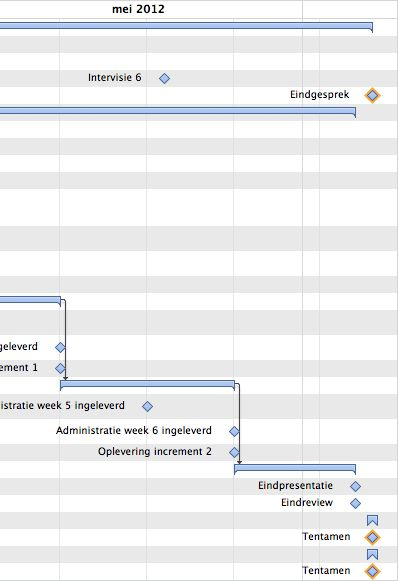
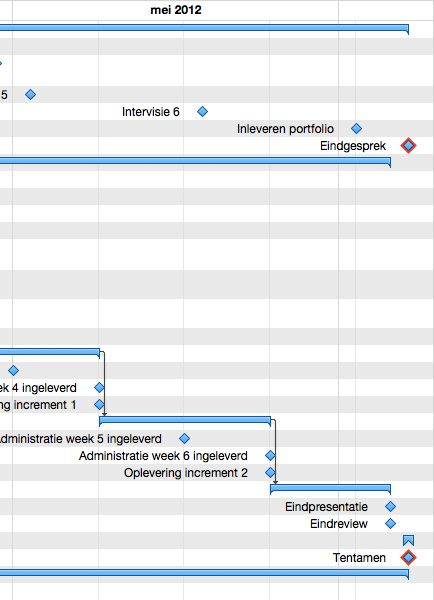
* Added ICV milestones * Added SLB milestones * Adjusted style to be more readable

diff --git a/planning/ISM2IKBS.V111.html b/planning/ISM2IKBS.V111.html
@@ -44,7 +44,16 @@
                 <td></td>
             </tr>
             <tr class="taskTypeMilestone">
-                <td style="padding-left: 28px;" class="wrap">1.2) Intervisie 5</td>
+                <td style="padding-left: 28px;" class="wrap">1.2) Inleveren POP</td>
+                <td>27-04-12</td>
+                <td>27-04-12</td>
+                <td></td>
+                <td>0%</td>
+                <td></td>
+                <td></td>
+            </tr>
+            <tr class="taskTypeMilestone">
+                <td style="padding-left: 28px;" class="wrap">1.3) Intervisie 5</td>
                 <td>08-05-12</td>
                 <td>08-05-12</td>
                 <td></td>
@@ -53,7 +62,7 @@
                 <td></td>
             </tr>
             <tr class="taskTypeMilestone">
-                <td style="padding-left: 28px;" class="wrap">1.3) Intervisie 6</td>
+                <td style="padding-left: 28px;" class="wrap">1.4) Intervisie 6</td>
                 <td>22-05-12</td>
                 <td>22-05-12</td>
                 <td></td>
@@ -62,7 +71,16 @@
                 <td></td>
             </tr>
             <tr class="taskTypeMilestone">
-                <td style="padding-left: 28px;" class="wrap">1.4) Eindgesprek</td>
+                <td style="padding-left: 28px;" class="wrap">1.5) Inleveren portfolio</td>
+                <td>04-06-12</td>
+                <td>04-06-12</td>
+                <td></td>
+                <td>0%</td>
+                <td></td>
+                <td></td>
+            </tr>
+            <tr class="taskTypeMilestone">
+                <td style="padding-left: 28px;" class="wrap">1.6) Eindgesprek</td>
                 <td>07-06-12</td>
                 <td>07-06-12</td>
                 <td></td>
@@ -270,6 +288,60 @@
             </tr>
             <tr class="taskTypeGroup">
                 <td style="padding-left: 18px;" class="wrap">4) ICV</td>
+                <td>24-04-12</td>
+                <td>07-06-12</td>
+                <td>108h</td>
+                <td>0%</td>
+                <td></td>
+                <td></td>
+            </tr>
+            <tr class="taskTypeMilestone">
+                <td style="padding-left: 28px;" class="wrap">4.1) Deeltoets 1</td>
+                <td>24-04-12</td>
+                <td>24-04-12</td>
+                <td></td>
+                <td>0%</td>
+                <td></td>
+                <td></td>
+            </tr>
+            <tr class="taskTypeMilestone">
+                <td style="padding-left: 28px;" class="wrap">4.2) Deeltoets 2</td>
+                <td>15-05-12</td>
+                <td>15-05-12</td>
+                <td></td>
+                <td>0%</td>
+                <td></td>
+                <td></td>
+            </tr>
+            <tr class="taskTypeMilestone">
+                <td style="padding-left: 28px;" class="wrap">4.3) Deeltoets 3</td>
+                <td>22-05-12</td>
+                <td>22-05-12</td>
+                <td></td>
+                <td>0%</td>
+                <td></td>
+                <td></td>
+            </tr>
+            <tr class="taskTypeMilestone">
+                <td style="padding-left: 28px;" class="wrap">4.4) Deeltoets 4</td>
+                <td>29-05-12</td>
+                <td>29-05-12</td>
+                <td></td>
+                <td>0%</td>
+                <td></td>
+                <td></td>
+            </tr>
+            <tr class="taskTypeMilestone">
+                <td style="padding-left: 28px;" class="wrap">4.5) Presentatie</td>
+                <td>30-05-12</td>
+                <td>30-05-12</td>
+                <td></td>
+                <td>0%</td>
+                <td></td>
+                <td></td>
+            </tr>
+            <tr class="taskTypeMilestone">
+                <td style="padding-left: 28px;" class="wrap">4.6) Inleveren sprekersprofiel</td>
                 <td>07-06-12</td>
                 <td>07-06-12</td>
                 <td></td>
@@ -278,7 +350,7 @@
                 <td></td>
             </tr>
             <tr class="taskTypeMilestone">
-                <td style="padding-left: 28px;" class="wrap">4.1) Tentamen</td>
+                <td style="padding-left: 28px;" class="wrap">4.7) Tentamen</td>
                 <td>07-06-12</td>
                 <td>07-06-12</td>
                 <td></td>
@@ -288,7 +360,7 @@
             </tr>
             </table>
         <p/>
-        <p class="footer">Exported 06-04-12</p>
+        <p class="footer">Exported 09-04-12</p>
         <p class="footer">OmniPlan&nbsp;1.7&nbsp;by <a href="http://www.omnigroup.com">The Omni Group</a></p>
     </body>
 </html>

diff --git a/planning/index.html b/planning/index.html
@@ -329,7 +329,7 @@ img.icon
                     </table>
             </div>
         </div>
-        <p class="footer">Exported 06-04-12</p>
+        <p class="footer">Exported 09-04-12</p>
         <p class="footer">OmniPlan&nbsp;1.7&nbsp;by <a href="http://www.omnigroup.com">The Omni Group</a></p>
 	</body>
 </html>

diff --git a/planning/ISM2IKBS.V111Resources.html b/planning/ISM2IKBS.V111Resources.html
@@ -56,7 +56,7 @@
             
             </table>
         <p/>
-        <p class="footer">Exported 06-04-12</p>
+        <p class="footer">Exported 09-04-12</p>
         <p class="footer">OmniPlan&nbsp;1.7&nbsp;by <a href="http://www.omnigroup.com">The Omni Group</a></p>
     </body>
 </html>

diff --git a/planning/ISM2IKBS.V111Gantt.html b/planning/ISM2IKBS.V111Gantt.html
@@ -3,4 +3,8 @@
 	<td><img src="include/gantt0,0.jpg" border=0/></td>
 	<td><img src="include/gantt1,0.jpg" border=0/></td>
 </tr>
+<tr>
+	<td><img src="include/gantt0,1.jpg" border=0/></td>
+	<td><img src="include/gantt1,1.jpg" border=0/></td>
+</tr>
 </table></body></html>
